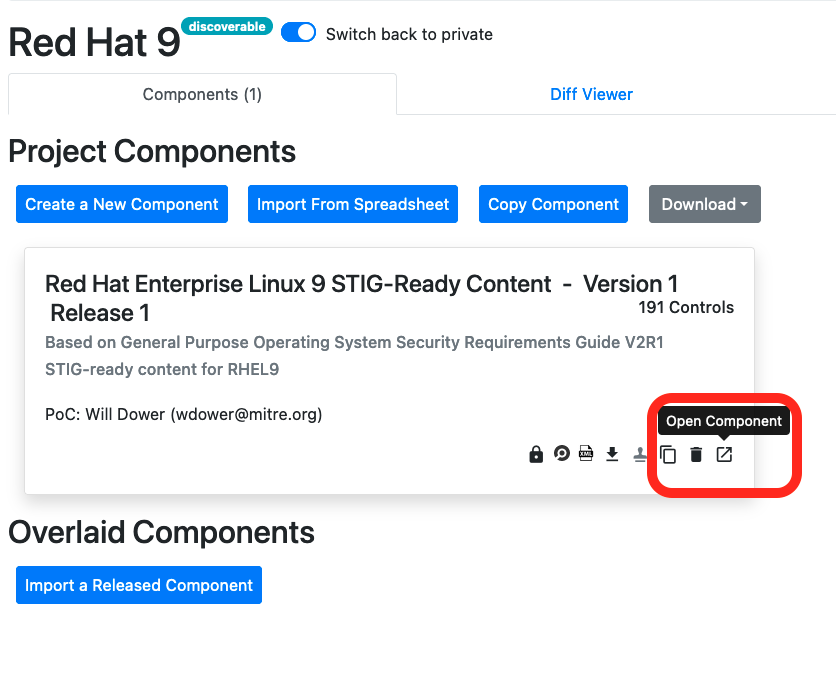
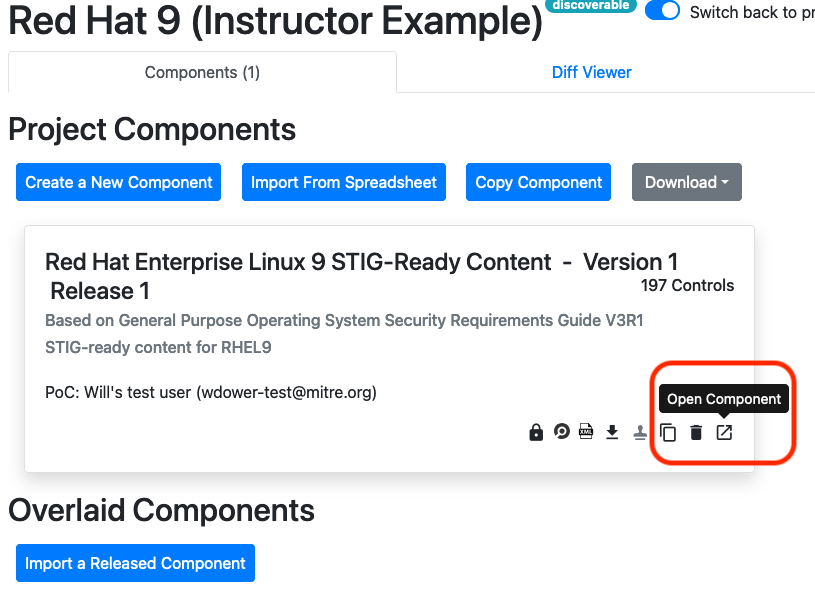
updating the screenshots to use the right component (updating examples to be based off of most recent GPOS SRG

diff --git a/src/courses/guidance/07.md b/src/courses/guidance/07.md
@@ -35,7 +35,7 @@ You'll see a view of the requirement's text fields, like the vulnerability discu
 ![An Unedited Requirement](@/../../../assets/img/selected_control.png)
 
 Note how all of these text fields are:
-- Pre-populated with the underlying SRG data for the general requirement (in this case SRG-OS-000004-GPOS-00004)
+- Pre-populated with the underlying SRG data for the general requirement (in this case SRG-OS-000366-GPOS-00153)
 - Grayed-out and uneditable at present.
 
 We can't edit these text fields yet because we haven't yet told Vulcan if this requirement is even applicable to our Component. Let's fix that.
@@ -88,7 +88,7 @@ flowchart TB
 ```
 
 ### 7.3.2 Our First Requirement Status
-3. Let's pick a status for RHEL-09-000003. We will do this by reading the SRG requirement and determining if it applies to this particular component, and if so, if it is an innate feature of the system or not.
+3. Let's pick a status for RHEL-09-000130. We will do this by reading the SRG requirement and determining if it applies to this particular component, and if so, if it is an innate feature of the system or not.
 
 The requirement's title is *"The operating system must audit all account creations."*
 
@@ -108,7 +108,7 @@ We would consider this requirement **Applicable - Configurable.** The system is 
 
 4. Based on our decision, let's edit the status field in the Component editing screen.
 ::: details Changing status
-![Updating the Status on RHEL-09-000003](@/../../../assets/img/assigning_status.png)
+![Updating the Status on RHEL-09-000130](@/../../../assets/img/assigning_status.png)
 
 Hint: Most SRG requirements wind up being applicable to Components. A handful may be either Not Applicable, Inherently Met or Inherently Not Met. We still have to check.
 :::
@@ -119,7 +119,7 @@ Before we do that, let's investigate a the Status field a bit more.
 
 ### 7.3.3 Another Requirement Status
 
-5. Let's skip ahead and pick an example with a different status. On the sidebar, click on RHEL-09-000045.
+5. Let's double back and pick an example with a different status. On the sidebar, click on RHEL-09-000045.
 
 ![RHEL-09-000045](@/../../../assets/img/inherently_met_control.png)
 

diff --git a/src/courses/guidance/05.md b/src/courses/guidance/05.md
@@ -44,6 +44,8 @@ Click it and begin to fill out the details for our project. You can make the Tit
 
 3. When you are finished, click Create Project. You'll be taken to the Project view for the workspace you just created, which is currently empty. We should fix that.
 
+
+
 ### 5.1.4 Role-Based Access Control
 
 Before we create a Component, though, let's configure Role-Based Access Control (RBAC).
@@ -64,6 +66,9 @@ Write and approve changes to a Control.
 ::: details Admin
 Full control of a Project or Component. Lock Controls, revert controls, and manage members. You'll note that the Project's creator is automatically an admin.
 :::
+
+![Members View](../../assets/img/members_view.png)
+
 ::: tip Adding Colleagues
 If you have any colleagues taking the class with you, you may want to add them as a reviewer now (note that you can only add members to a project if they have registered to the Vulcan instance already).
 :::

diff --git a/src/courses/guidance/06.md b/src/courses/guidance/06.md
@@ -90,10 +90,6 @@ On the right-hand side of the Vulcan window, if we don't have a requirement sele
 
 ![Component Metadata](../../assets/img/component_metadata.png)
 
-We can edit the metadata for the entire component here, or even add links or other tags as part of the Component Additional Questions section.
-
-![Adding Component Questions](../../assets/img/add_questions_modal.png)
-
 6. On the left side of the page, scroll down to the section titled "All Controls". These are all of the requirements in the SRG we selected earlier.
 
 The left-hand side of the Vulcan window shows us the list of each requirement in the Component, and can be filtered by keyword, control status (which we will discuss in the next section) or review status. Note that each control is labeled with the STIG ID prefix that you gave this Component earlier. You can click on the requirement IDs in this view to see their contents.
